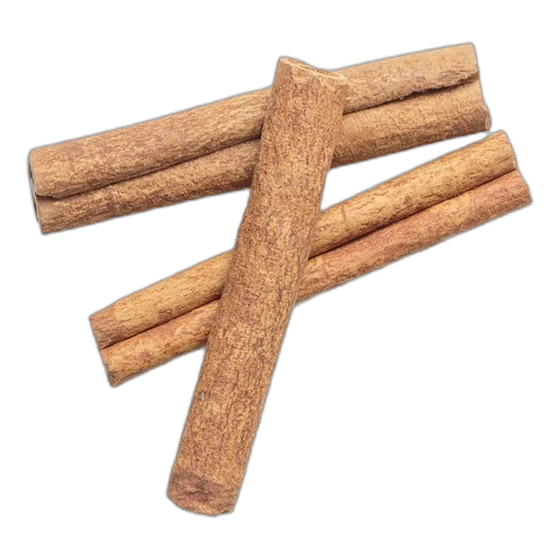
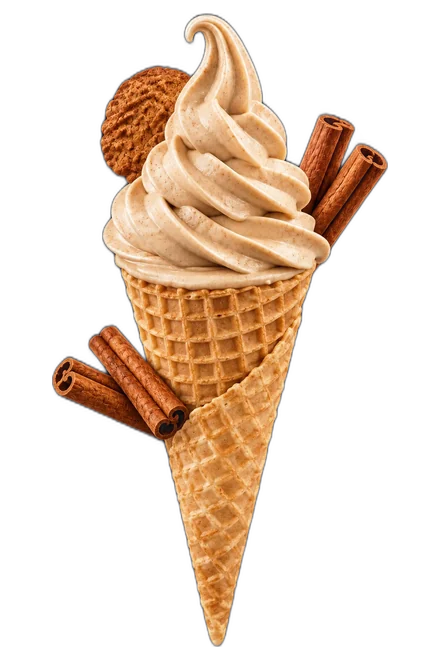
Skořice doplněna, vodoznak z loga pryč
Všech 17 příchutí má teď kornout. Skořice přišla v plném rozlišení
1024x1536 na černém pozadí — odmazáno přes rembg, obrázky pro web jsou
generované z originálu, takže jsou nejostřejší z celé sady.

Vodoznak z loga v úvodu odstraněn i se souborem logo-znak.webp.

VERZE dat na "5".

diff --git a/assets/style.css b/assets/style.css
@@ -50,13 +50,6 @@ section[id] { scroll-margin-top: 80px; }
 .blok--uvod { padding-top: clamp(20px, 3vw, 44px); }
 .blok--uvod::before { display: none; }
 
-/* Znak z jejich loga (kornout + domek, bez napisu) jako vodoznak za uvodem.
-   Lezi pod obsahem i pod sypanim, takze nic neprekryva. */
-.blok--uvod::after {
-  content: ""; position: absolute; left: 50%; top: 45%; transform: translate(-50%, -50%);
-  width: min(620px, 64vw); aspect-ratio: 1; z-index: 0; pointer-events: none;
-  background: url("img/logo-znak.webp") center / contain no-repeat; opacity: .13;
-}
 .blok__in { width: min(var(--sirka), 100%); margin-inline: auto; padding-inline: var(--pad); position: relative; z-index: 2; }
 
 /* ---------- tlačítka ---------- */

diff --git a/assets/data.js b/assets/data.js
@@ -11,7 +11,7 @@
 window.ZD = (function () {
   "use strict";
 
-  const VERZE = "4";
+  const VERZE = "5";
   const CESTA = "assets/data/";
 
   /* ---------- vestavěná záloha ---------- */
